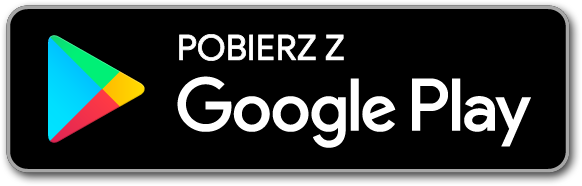
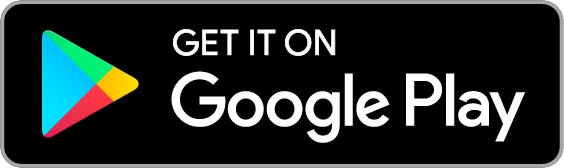
English version

diff --git a/src/App.vue b/src/App.vue
@@ -2,7 +2,7 @@
   <v-app light>
     <v-content>
       <section>
-        <v-parallax class="top-parallax" src="/static/img/app-green.webp" alt="Wystaw śmieci on green" height="600"></v-parallax>
+        <v-parallax class="top-parallax" src="/static/img/app-green.webp" alt="Put out the garbage on green" height="600"></v-parallax>
       </section>
       
       <section>
@@ -13,8 +13,8 @@
         >
           <v-flex xs12 class="mt-3">
             <div class="text-xs-center">
-              <h1 class="headline">HARMONOGRAM ODBIORU ODPADÓW W ZIELONCE</h1>
-              <a href="https://play.google.com/store/apps/details?id=pl.example.android.garbageapp"><img class="mt-3" src="/static/img/google-play-badge.png" alt="Pobierz aplikację" height="65"></a>
+              <h1 class="headline">WASTE RECEPTION SCHEDULE IN ZIELONKA CITY</h1>
+              <a href="https://play.google.com/store/apps/details?id=pl.example.android.garbageapp"><img class="mt-3" src="/static/img/google-play-badge.png" alt="Get App" height="65"></a>
             </div>
           </v-flex>
           <v-flex xs12>
@@ -26,11 +26,11 @@
                       <v-icon x-large class="green--text">event</v-icon>
                     </v-card-text>
                     <v-card-title primary-title class="layout justify-center">
-                      <div class="headline text-xs-center">Przegląd terminów</div>
+                      <div class="headline text-xs-center">Review of deadlines</div>
                     </v-card-title>
                     <v-card-text>
-                      Zawsze aktualne terminy odbiorów odpadów w Zielonce. Dzięki naszej aplikacji możesz przeglądać daty
-                      odbioru odpadów dla wszystkich trzech stref. <br />Na pierwszym miejscu znajdziesz zawsze najbliższy termin.
+                      Always valid dates of waste collection in Zielonka. With our application you can view dates of collection for all three zones.<br>
+                      In the first place you will always find the nearest date.
                     </v-card-text>
                   </v-card>
                 </v-flex>
@@ -40,11 +40,11 @@
                       <v-icon x-large class="green--text">alarm_on</v-icon>
                     </v-card-text>
                     <v-card-title primary-title class="layout justify-center">
-                      <div class="headline">Powiadomienia</div>
+                      <div class="headline">Notifications</div>
                     </v-card-title>
                     <v-card-text>
-                      Już nigdy nie zapomnisz o wystawieniu śmieci! Wystarczy, że zaznaczysz opcję powiadomienia a 
-                      aplikacja przypomni Ci dzień wcześniej o konieczności wystawienia właściwych odpadów.
+                      You will never forget about the putting out the garbage! Just select the notification option and the
+                      application will remind you the day before about the need to put out the right waste.
                     </v-card-text>
                   </v-card>
                 </v-flex>
@@ -54,11 +54,11 @@
                       <v-icon x-large class="green--text">color_lens</v-icon>
                     </v-card-text>
                     <v-card-title primary-title class="layout justify-center">
-                      <div class="headline text-xs-center">Intuicyjna obsługa</div>
+                      <div class="headline text-xs-center">User friendly</div>
                     </v-card-title>
                     <v-card-text>
-                      Wystarczy jedno kliknięcie w aplikacji aby dowiedzieć się jaki jest najbliższy termin odbioru odpadów. 
-                      Tylko dwa kliknięcia aby ustawić powiadomienia dla właściwej strefy.
+                      All it takes is one click in the application to find out what is the next date of waste collection. 
+                      Only two clicks to set notifications for the correct zone.
                     </v-card-text>
                   </v-card>
                 </v-flex>
@@ -78,12 +78,12 @@
             <v-flex xs12 sm4>
               <v-card class="elevation-0 transparent">
                 <v-card-title primary-title class="layout justify-center">
-                  <div class="headline">Autorzy</div>
+                  <div class="headline">Authors</div>
                 </v-card-title>
                 <v-card-text>
                   <ul>
                     <li>
-                      <strong>Grzegorz Bielański</strong> – pomysł i wykonanie aplikacji na system Android.
+                      <strong>Grzegorz Bielański</strong> – idea and application development for Android system.
                       <a class="mx-1" href="https://www.linkedin.com/in/gbielanski/">
                         <img class="list-img" src="/static/img/linkedin-icon-blue.png" height="16" alt="LinkedIn Logo">
                       </a> 
@@ -92,7 +92,7 @@
                       </a>
                       </li>
                     <li>
-                      <strong>Tomasz Milczarek</strong> – aplikacja na system Android. 
+                      <strong>Tomasz Milczarek</strong> – Android application development. 
                       <a class="mx-1" href="https://www.linkedin.com/in/milto/">
                         <img class="list-img" src="/static/img/linkedin-icon-blue.png" height="16" alt="LinkedIn Logo">
                       </a> 
@@ -101,7 +101,7 @@
                       </a>
                     </li>
                     <li>
-                      <a class="black--text black-link" href="https://mysliwiec.pro/">Tomasz Myśliwiec</a> – strona internetowa projektu. 
+                      <a class="black--text black-link" href="https://mysliwiec.pro/">Tomasz Myśliwiec</a> – project web page. 
                       <a class="mx-1" href="https://www.linkedin.com/in/tomekmy/">
                         <img class="list-img" src="/static/img/linkedin-icon-blue.png" height="16" alt="LinkedIn Logo">
                       </a>
@@ -116,10 +116,10 @@
             <v-flex xs12 sm4 offset-sm1>
               <v-card class="elevation-0 transparent">
                 <v-card-title primary-title class="layout justify-center">
-                  <div class="headline">Kontakt</div>
+                  <div class="headline">Contact</div>
                 </v-card-title>
                 <v-card-text>
-                  W razie jakichkolwiek uwag prosimy o wysyłanie wiadomości na nasz profil na Facebook'u.
+                  In case of any comments, please send a message to our Facebook profile.
                 </v-card-text>
                 <v-list class="transparent">
                   <v-list-tile>

diff --git a/index.html b/index.html
@@ -4,13 +4,13 @@
     <meta charset="utf-8">
     <meta http-equiv="X-UA-Compatible" content="IE=edge">
     <meta name="viewport" content="width=device-width, initial-scale=1">
-    <title>Wystaw śmieci</title>
-    <meta name="description" content="Dzięki tej aplikacji już nigdy nie zapomnisz o wystawieniu śmieci oraz będziesz miał wgląd we wszystkie strefy i terminy odbioru nieczystości.">
-    <meta name="keywords" content="śmieci, nieczystości, segregowalne, wystaw, zielonka">
+    <title>Put out the garbage</title>
+    <meta name="description" content="Thanks to this application you will never forget about the issue of rubbish and you will have an overview of all zones and deadlines collection.">
+    <meta name="keywords" content="garbage, sewage, segregated, exhibitions, zielonka">
     <meta property="og:url" content="https://wystaw-smieci.pl">
     <meta property="og:type" content="website">
-    <meta property="og:title" content="Wystaw śmieci">
-    <meta property="og:description" content="Dzięki tej aplikacji już nigdy nie zapomnisz o wystawieniu śmieci oraz będziesz miał wgląd we wszystkie strefy i terminy odbioru nieczystości.">
+    <meta property="og:title" content="Put out the garbage">
+    <meta property="og:description" content="Thanks to this application you will never forget about the issue of rubbish and you will have an overview of all zones and deadlines collection.">
     <meta property="og:image" content="https://www.wystaw-smieci.pl/static/img/app-green.jpg">
     <link rel="canonical" href="https://wystaw-smieci.pl">
     <link rel="icon" type="image/png" sizes="32x32" href="<%= htmlWebpackPlugin.files.publicPath %>static/img/icons/favicon-32x32.png">
@@ -22,7 +22,7 @@
     <!-- Add to home screen for Safari on iOS -->
     <meta name="apple-mobile-web-app-capable" content="yes">
     <meta name="apple-mobile-web-app-status-bar-style" content="black">
-    <meta name="apple-mobile-web-app-title" content="Wystaw śmieci">
+    <meta name="apple-mobile-web-app-title" content="Put out the garbage">
     <link rel="apple-touch-icon" href="<%= htmlWebpackPlugin.files.publicPath %>static/img/icons/apple-touch-icon-152x152.png">
     <link rel="mask-icon" href="<%= htmlWebpackPlugin.files.publicPath %>static/img/icons/safari-pinned-tab.svg" color="#5bbad5">
     <!-- Add to home screen for Windows -->
@@ -39,7 +39,7 @@
   </head>
   <body>
     <noscript>
-      JavaScript jest wymagany do poprawnego działania strony!
+      You need JavaScript to see the page!
     </noscript>
     <div id="app"></div>
     <!-- Todo: only include in production -->
